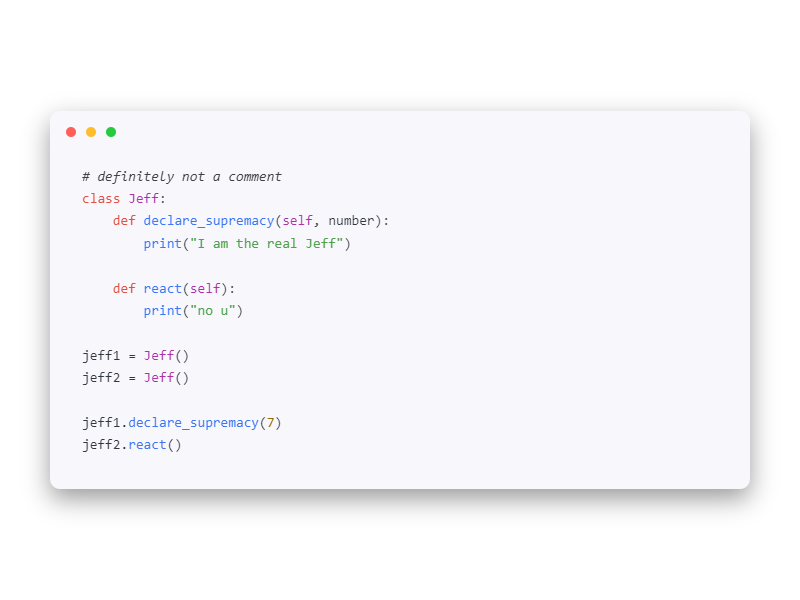
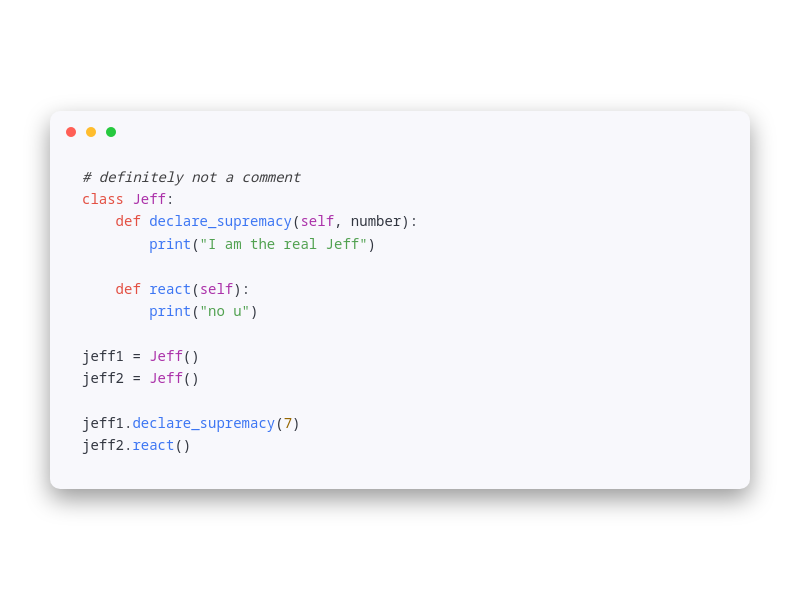
- changing the readme table - changing some colors in the rouge theme

diff --git a/dogs/rogue/code_preview.html b/dogs/rogue/code_preview.html
@@ -10,9 +10,9 @@
       --fg: #e8e8ea;
       --comment: #24292e;
       --keyword: #f7e254;
-      --function: #9d9eb0;
+      --function: #95A4C6;
       --string: #92c468;
-      --type: #8e8e90;
+      --type: #C4873A;
       --constant: #FF875F;
       --special: #FF875F;
       --cursor: #ffdb29;

diff --git a/themes/rogue/vimium.css b/themes/rogue/vimium.css
@@ -2,7 +2,7 @@
 
 :root {
   --vimium-orange: #f7e254;
-  --vimium-yellow: #9d9eb0;
+  --vimium-yellow: #95A4C6;
   --vimium-green: #92c468;
   --vimium-text: #e8e8ea;
   --vimium-surface2: #20202b;

diff --git a/README.md b/README.md
@@ -13,15 +13,34 @@
 </div>
 
 <p align="center">Each variant has its own folder. neovim is done seperatly</p>
-<p align="center">
-  <kbd><b>Mage</b><br><a href="./themes/mage"><img width="256" src="https://github.com/Skardyy/makurai-theme/blob/main/dogs/mage/thumbnail.png"/></a></kbd>
-  &nbsp;&nbsp;&nbsp;&nbsp;
-  <kbd><b>Rogue</b><br><a href="./themes/rogue"><img width="256" src="https://github.com/Skardyy/makurai-theme/blob/main/dogs/rogue/thumbnail.png"/></a></kbd>
-</p>
-<p align="center">
-  <kbd><b>Healer</b><br><a href="./themes/healer"><img width="256" src="https://github.com/Skardyy/makurai-theme/blob/main/dogs/healer/thumbnail.png"/></a></kbd>
-  &nbsp;&nbsp;&nbsp;&nbsp;
-  <kbd><b>Druid</b><br><a href="./themes/druid"><img width="256" src="https://github.com/Skardyy/makurai-theme/blob/main/dogs/druid/thumbnail.png"/></a></kbd>
-</p>
-
-
+<table align="center">
+  <tr>
+    <td align="center">
+      <a href="./themes/mage">
+        <b>Mage</b><br>
+        <img width="512" src="https://github.com/Skardyy/makurai-theme/blob/main/dogs/mage/thumbnail.png"/>
+      </a>
+    </td>
+    <td align="center">
+      <a href="./themes/rogue">
+        <b>Rogue</b><br>
+        <img width="512" src="https://github.com/Skardyy/makurai-theme/blob/main/dogs/rogue/thumbnail.png"/>
+      </a>
+    </td>
+  </tr>
+<tr/>
+<tr>
+    <td align="center">
+      <a href="./themes/healer">
+        <b>Healer</b><br>
+        <img width="512" src="https://github.com/Skardyy/makurai-theme/blob/main/dogs/healer/thumbnail.png"/>
+      </a>
+    </td>
+    <td align="center">
+      <a href="./themes/druid">
+        <b>Druid</b><br>
+        <img width="512" src="https://github.com/Skardyy/makurai-theme/blob/main/dogs/druid/thumbnail.png"/>
+      </a>
+    </td>
+  </tr>
+</table>

diff --git a/themes/rogue/README.md b/themes/rogue/README.md
@@ -9,9 +9,9 @@
 | Name      | Color          | |
 |-----------|----------------|-|
 | Keyword   | `#f7e254` | ![keyword](../../dogs/rogue/keyword.png) |
-| Function  | `#9d9eb0` | ![function](../../dogs/rogue/function.png) |
+| Function  | `#95A4C6` | ![function](../../dogs/rogue/function.png) |
 | String    | `#92c468` | ![string](../../dogs/rogue/string.png) |
-| Type      | `#8e8e90` | ![type](../../dogs/rogue/type.png) |
+| Type      | `#C4873A` | ![type](../../dogs/rogue/type.png) |
 | Constant  | `#FF875F` | ![constant](../../dogs/rogue/constant.png) |
 | Comment   | `#5C6773` | ![comment](../../dogs/rogue/comment.png) |
 | Foreground| `#e8e8ea` | ![foreground](../../dogs/rogue/foreground.png) |
